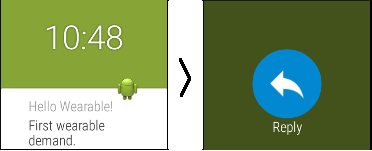
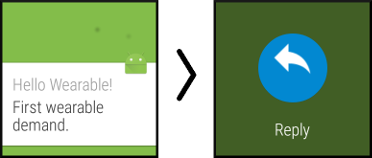
Add Try First Demand.

diff --git a/demand.rst b/demand.rst
@@ -156,23 +156,35 @@ You also need to modify the manifest file to accept the broadcast. Add a receive
         <action android:name="com.androidweardocs.first_wearable.ACTION_DEMAND"/>
       </intent-filter>
 	</receiver>
+
+Try the First Demand
+---------------------
 	 
-The sample code first displays the notification text, which is simply a title and body. Swiping to the left displays the reply icon with the reply label.	 
+Your new app creates and dispatches a demand notification when it first opens. Both the handheld and wearable receive and post this notification. The wearable adds it to the notification stream, so scroll through the notifications until you see the demand.	 
+
+Scroll the demand notification into full view then swipe to the left. The Reply icon is displayed.
 
    .. figure:: images/demand-sequence-icon.png
       :scale: 100
 
-Selecting the reply icon displays the voice prompt, and then the confirmation after you speak (or type on the emulator).	 
+Tap the reply icon to display the voice and emoji prompts. Voice is the default, so just start speaking to enter a voice demand.  
 
    .. figure:: images/demand-sequence-voice.png
       :scale: 100	
+	  
+In this example the voice demand is *hello handheld*. Android converts your voice input to text and begins sending it to the handheld. You can abort this by taping the blue Sending icon. When Android finishes sending the demand to the handheld, it returns to the Reply prompt. You could then, for example, tap Reply and then Draw Emoji.
+
+   .. figure:: images/demand-sequence-emoji.png
+      :scale: 100	
 	
-The example DemandIntentReceiver receives the broadcasted intent and extracts the voice input. Log messages show the value of the extra text within the intent and the voice string from the remote input. 
-  
-  .. code-block:: text
-  
-    MyTag: Extra message from intent = Reply icon selected.
-    MyTag: User reply from wearable: hello handheld
+In the first prompt you can draw the emoji you want or just click the emoji icon. Either way you get a grid of emoji icons to choose from. Tap the desired emoji and Android sends it to the handheld.
+
+Note: The emoji functionality in not something you need to code; it is all implemented by the Android system software.
+
+The full Example project on github shows how to display demands received by the handheld onscreen.
+
+   .. figure:: images/demand-handheld.png
+      :scale: 100	
 
 Example
 --------
